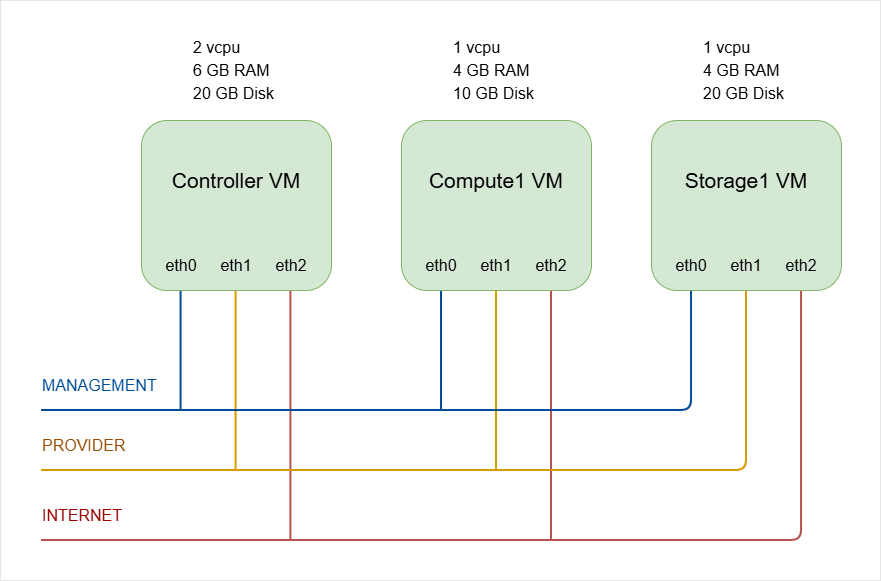
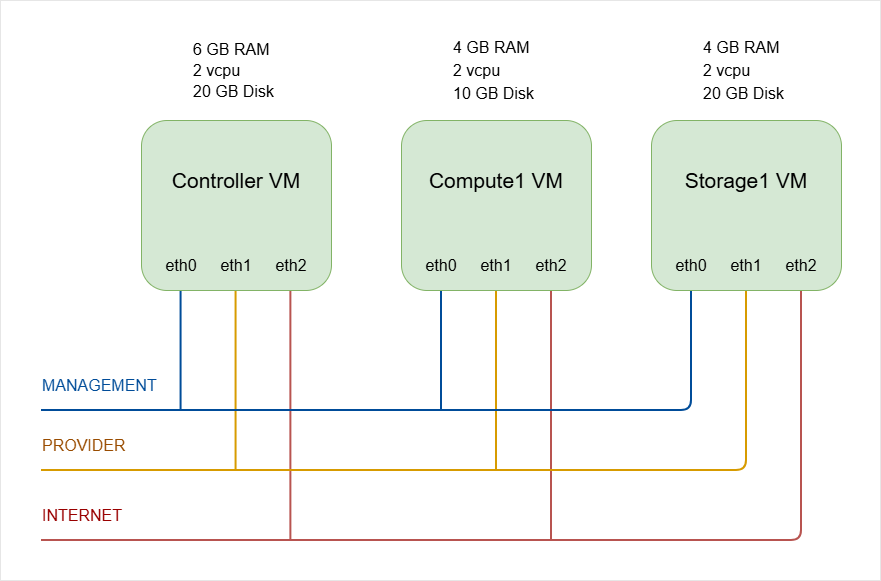
Migrate notes

Changed region(s): [[0.2145, 0.062, 0.3065, 0.1859], [0.7968, 0.062, 0.8888, 0.1549], [0.521, 0.062, 0.6129, 0.1549]]

diff --git a/docs/038-OpenStack/005-Installation/008-Manual-Installation.md b/docs/038-OpenStack/005-Installation/008-Manual-Installation.md
@@ -40,6 +40,7 @@ VirtualBox is a free hypervisor used to create and manage virtual machines for l
 
 - Used to create and run the virtual machines
 - Available on Windows, macOS, and Linux
+- See: [Download VirtualBox](https://www.virtualbox.org/wiki/Downloads)
 
 Other hypervisors such as Hyper-V, VMware, or KVM can also be used with minor configuration adjustments.
 
@@ -53,11 +54,11 @@ QEMU is fine for learning and testing. It is not intended for production workloa
 
 #### Operating System
 
-This lab uses **Ubuntu Server 22.04.5 LTS**, but other Linux distributions can also be used, including:
+This lab uses [Ubuntu Server 22.04.5 LTS](https://ubuntu.com/download/server), but other Linux distributions can also be used, including:
 
 - AlmaLinux
 - Rocky Linux
-- openSUSE
+- OpenSUSE
 
 The primary difference between distributions is the **package manager**:
 
@@ -77,8 +78,8 @@ The lab uses three VMs to represent a small OpenStack environment.
 | Node       | Role                                                                        | vCPUs | RAM   | Disk  |
 | ---------- | --------------------------------------------------------------------------- | ----- | ----- | ----- |
 | Controller | Runs core OpenStack services (Identity, Image, Networking, Dashboard, etc.) | 2     | 6 GB  | 20 GB |
-| Compute    | Runs virtual machine instances (Nova compute service)                       | 1     | 4 GB | 10 GB |
-| Storage    | Provides block storage (Cinder with LVM backend)                            | 1     | 4 GB | 20 GB |
+| Compute    | Runs virtual machine instances (Nova compute service)                       | 2     | 4 GB | 10 GB |
+| Storage    | Provides block storage (Cinder with LVM backend)                            | 2     | 4 GB | 20 GB |
 
 Diagram: 
 
@@ -158,22 +159,22 @@ This guide provides a simplified checklist for installing OpenStack in virtual o
 
 | Description                  | Parameter       | Value     |
 | ---------------------------- | --------------- | --------- |
-| SQL Database 'root' password | MYSQL_ROOT      | openstack |
-| 'admin' user password        | ADMIN_PASS      | openstack |
-| Cinder database password     | CINDER_DBPASS   | openstack |
-| 'cinder' user password       | CINDER_PASS     | openstack |
-| Horizon database password    | DASH_DBPASS     | openstack |
-| 'demo' user password         | DEMO_PASS       | openstack |
-| Glance database password     | GLANCE_DBPASS   | openstack |
-| 'glance' user password       | GLANCE_PASS     | openstack |
-| Keystone database password   | KEYSTONE_DBPASS | openstack |
-| Metadata secret              | METADATA_SECRET | openstack |
-| Neutron database password    | NEUTRON_DBPASS  | openstack |
-| 'neutron' user password      | NEUTRON_PASS    | openstack |
-| Nova database password       | NOVA_DBPASS     | openstack |
-| 'nova' user password         | NOVA_PASS       | openstack |
-| 'placement' user password    | PLACEMENT_PASS  | openstack |
-| RabbitMQ password            | RABBIT_PASS     | openstack |
+| SQL Database `root` password | `MYSQL_ROOT`      | openstack |
+| `admin` user password        | `ADMIN_PASS`      | openstack |
+| Cinder database password     | `CINDER_DBPASS`   | openstack |
+| `cinder` user password       | `CINDER_PASS`     | openstack |
+| Horizon database password    | `DASH_DBPASS`     | openstack |
+| `demo` user password         | `DEMO_PASS`       | openstack |
+| Glance database password     | `GLANCE_DBPASS`   | openstack |
+| `glance` user password       | `GLANCE_PASS`     | openstack |
+| Keystone database password   | `KEYSTONE_DBPASS` | openstack |
+| Metadata secret              | `METADATA_SECRET` | openstack |
+| Neutron database password    | `NEUTRON_DBPASS`  | openstack |
+| `neutron` user password      | `NEUTRON_PASS`    | openstack |
+| Nova database password       | `NOVA_DBPASS`     | openstack |
+| `nova` user password         | `NOVA_PASS`       | openstack |
+| `placement` user password    | `PLACEMENT_PASS`  | openstack |
+| RabbitMQ password            | `RABBIT_PASS`     | openstack |
 
 #### Firewall and Common Ports
 
@@ -221,61 +222,6 @@ sudo ufw status verbose
 sudo ufw disable
 ```
 
-## Installation Checklist: Controller Node 
-
-This section covers VM and bare metal setup for the controller node, including hardware, networking, and OS installation.
-
-#### Hardware Configuration (VM)
-
-| Virtual      | Recommended | Actual |
-| ------------ | ----------- | ------ |
-| VCPU         | 1-2+        | 2      |
-| RAM          | 4+ GB       | 6 GB   |
-| Primary Disk | 10+ GB      | 20 GB  |
-
-#### Hardware Configuration (Bare Metal)
-
-| Bare Metal   | Recommended | Actual |
-| ------------ | ----------- | ------ |
-| CPU          | 1+          | 4      |
-| RAM          | 16+ GB      | 32 GB  |
-| Primary Disk | 128+ GB SSD | 512 GB |
-
-#### Network Interfaces
-
-| Interface | Network    | Config Type | IP Addr   | Netmask       | Gateway  | DNS     | VirtualBox Name              |
-| --------- | ---------- | ----------- | --------- | ------------- | -------- | ------- | ---------------------------- |
-| Adapter 1 | Management | static      | 10.0.0.11 | 255.255.255.0 | 10.0.0.1 | 8.8.8.8 | Host Only Adapter #2         |
-| Adapter 2 | Provider   | manual      | ---       | ---           | ---      | ---     | NAT Network ProviderNetwork1 |
-| Adapter 3 | Internet   | DHCP        | DHCP      | DHCP          | DHCP     | DHCP    | NAT Network NatNetwork1      |
-
-#### VirtualBox Networks
-
-| Network              | CIDR                     | DHCP     |
-| -------------------- | ------------------------ | -------- |
-| Host-Only Adapter #2 | 10.0.0.1 / 255.255.255.0 | Disabled |
-| NAT Provider Network | 203.0.113.0/24           | Disabled |
-| NAT Internet Network | 10.10.10.0/24            | Enabled  |
-
-#### OS Installation Options
-
-Operating system: [Ubuntu Server 22.04 LTS](https://www.ubuntu.com/download/server)
-
-| Option            | Recommended       | Actual            |
-| ----------------- | ----------------- | ----------------- |
-| Language          | English           | English           |
-| Installation mode | Minimal VM        | Minimal VM        |
-| Hostname          | controller        | controller        |
-| User              | max               | max               |
-| Password          | openstack         | openstack         |
-| Partitioning      | Entire disk + LVM | Entire disk + LVM |
-| SSH               | OpenSSH Server    | OpenSSH Server    |
-| GRUB              | Yes               | Yes               |
-| Timezone          | Eastern           | Eastern           |
-
-Ubuntu 22.04 uses netplan for networking instead of the older `/etc/network/interfaces`. Make sure to set static IPs in netplan YAML files if using static management addresses.
-
-
 ## Installation Workflow
 
 The manual installation follows a structured sequence.
@@ -285,6 +231,133 @@ The manual installation follows a structured sequence.
 3. Configure networking on all nodes
 4. Install infrastructure services
 5. Install OpenStack services
+
+
+### 1. Create the Virtual Networks 
+
+In VirtualBox, you will need to create the two networks from the VirtualBox Manager.
+
+| VirtualBox Network Type | Network Name         | Purpose / Network Type          | CIDR / Address                               | DHCP                           |
+| ----------------------- | -------------------- | ------------------------------- | -------------------------------------------- | ------------------------------ |
+| Host-Only Adapter       | ManagementNetwork    | Management (Controller ↔ Nodes) | 10.0.0.0/24                                | Disabled                       |
+| NAT Network             | ProviderNetwork      | Provider / VM traffic           | 10.10.10.0/24                              | Disabled (manual IPs optional) |
+| NAT                     | Internet             | Internet access / Updates       | VirtualBox default NAT (e.g., 10.0.2.0 / 24) | Enabled                        |
+
+:::info 
+
+The NAT (Internet) doesn’t need to be created beforehand. You can simply select **NAT** when creating the VM.
+
+:::
+
+#### Host-Only Adapter (Management Network)
+
+**Note:** You cannot rename Host-Only adapters in VirtualBox on Windows. VirtualBox does not allow renaming in the GUI, because it links directly to a network interface in Windows.
+
+1. Click `+` to create a new host-only adapter.
+2. Select the adapter → click Edit:
+
+   - IPv4 Address: `10.0.0.1`
+   - IPv4 Network Mask: `255.255.255.0`
+   - DHCP: Disabled (we’ll assign static IPs for the VMs)
+
+3. Click Apply to save.
+
+<div class='img-center'>
+
+![](/img/docs/Screenshot-2026-02-16-181024.png)
+
+</div>
+
+
+#### NAT Network (Provider Network)
+
+1. Go to Tools → Network → NAT Network.
+
+    <div class='img-center'>
+
+    ![](/img/docs/Screenshot-2026-02-16-175206.png)
+
+    </div>
+
+2. Click `+` to create a new NAT network.
+3. Click the Edit (gear icon) and update based on the table above.
+4. Click Apply to save.
+
+    <div class='img-center'>
+
+    ![](/img/docs/Screenshot-2026-02-16-175736.png)
+
+    </div>
+
+
+
+### 2. Create the Virtual Machines 
+
+We'll use VirtualBox to create three VMs with the specifications outlined in the lab architecture. Each VM will have:
+
+- Ubuntu Server 22.04 LTS
+- headless (no GUI)
+- Network settings for management, provider, and internet
+
+
+#### Controller VM
+
+| Setting           | Configuration          | Notes                                          |
+| ----------------- | ---------------------- | ---------------------------------------------- |
+| RAM (Base Memory) | 6 GB (6144 MB)         | Enough for Keystone, Glance, Nova API, Neutron | 
+| CPU (Processors)  | 2 cores                | Minimum 2                                      | 
+| Storage           | 20 GB                  | System disk only                               | 
+| Display           | 16 MB                  | Only needed for console access, no GUI         | 
+| Network Adapters  | 3                      | Each adapter has a purpose                     | 
+| Adapter 1         | Host-Only              | Static IP: 10.0.0.11/24, Gateway: 10.0.0.1     | 
+| Adapter 2         | `ProviderNetwork`      | Manual IP or DHCP off                          |
+| Adapter 3         | NAT                    | DHCP                                           | 
+
+Make sure to select the **Host-Only Adapter (Management Network)** created from previous step
+
+- Adapter 1 (Host-Only) is mandatory; all OpenStack nodes communicate here.
+- Adapter 3 (NAT) allows the VM to reach Ubuntu repositories.
+- The IP address will be set in the next step (step 3).
+- Display memory is minimal; no GUI needed.
+
+
+#### Compute VM
+
+| Setting          | Configuration          | Notes                                                    |                                                          |
+| ---------------- | ---------------------- | -------------------------------------------------------- | -------------------------------------------------------- |
+| RAM (Base Memory)| 4 GB                   | Enough for running VMs via Nova                          |                                                          |
+| CPU (Processors) | 2 cores                | At least 2                                               |                                                          |
+| Storage          | 20 GB                  | System only; ephemeral VM disks handled by Cinder/Glance |                                                          |
+| Display          | 16 MB                  | Console only                                             |                                                          |
+| Network Adapters | 2                      | Each adapter has a purpose                               |                                                          |
+| Adapter 1        | Host-Only              | Static IP: 10.0.0.31/24                                  | Management network                                       |
+| Adapter 2        | NAT Network (Provider) | Manual or DHCP                                           | To connect VMs launched by OpenStack to provider network |
+
+**Notes:**
+
+- Only 2 adapters are needed because compute doesn’t need direct internet unless for updates.
+- Host-Only ensures communication with controller and other nodes.
+
+
+#### Storage (Block Storage) VM
+
+| Setting          | Configuration | Notes                            |                             |
+| ---------------- | ------------- | -------------------------------- | --------------------------- |
+| RAM              | 4 GB          | Minimum for Cinder services      |                             |
+| CPU              | 1-2 cores     | Minimum 1, more if heavy testing |                             |
+| Storage          | 40-50 GB      | Storage space for volumes        |                             |
+| Display          | 16 MB         | Console only                     |                             |
+| Network Adapters | 2             | Each adapter has a purpose       |                             |
+| Adapter 1        | Host-Only     | Static IP: 10.0.0.41/24          | Management network          |
+| Adapter 2        | NAT           | DHCP                             | Internet access for updates |
+
+**Notes:**
+
+- Primary disk larger because it hosts Cinder volumes for testing.
+- Host-Only allows communication with controller for service API.
+
+
+
 
 ### 1. Prepare Infrastructure Services
 
